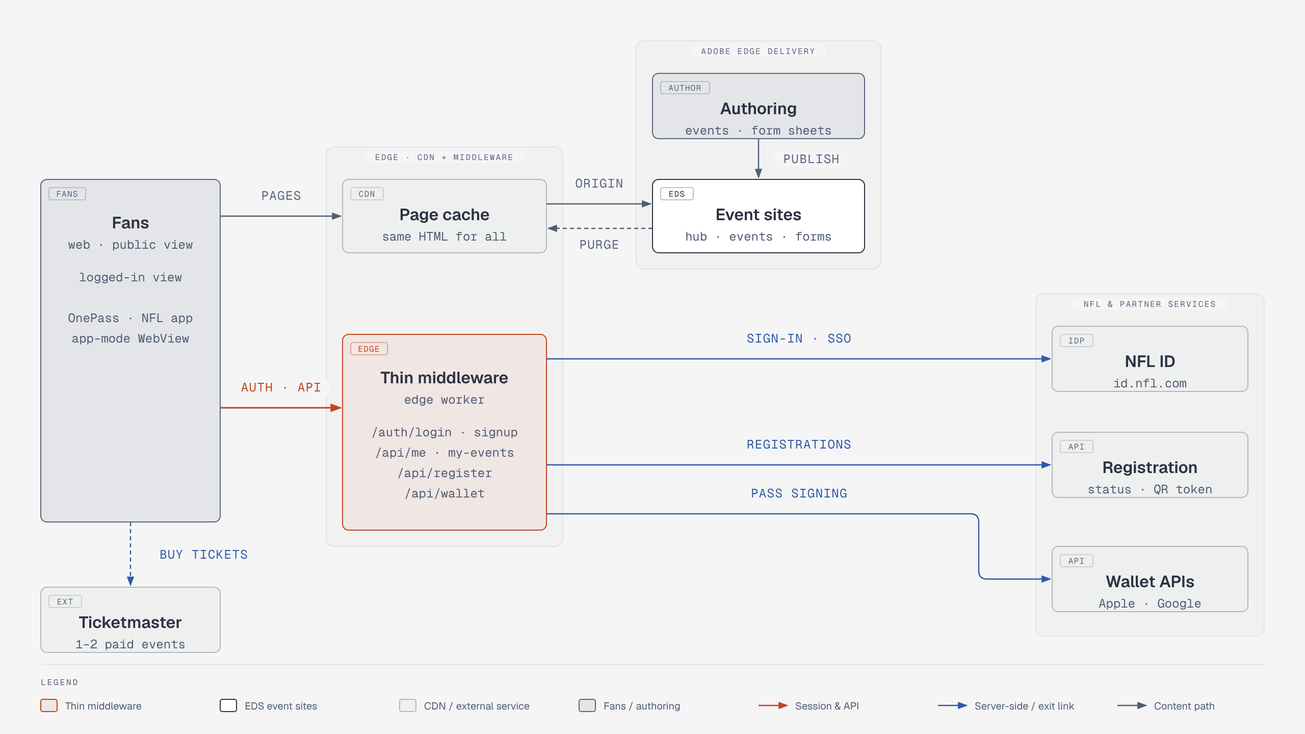
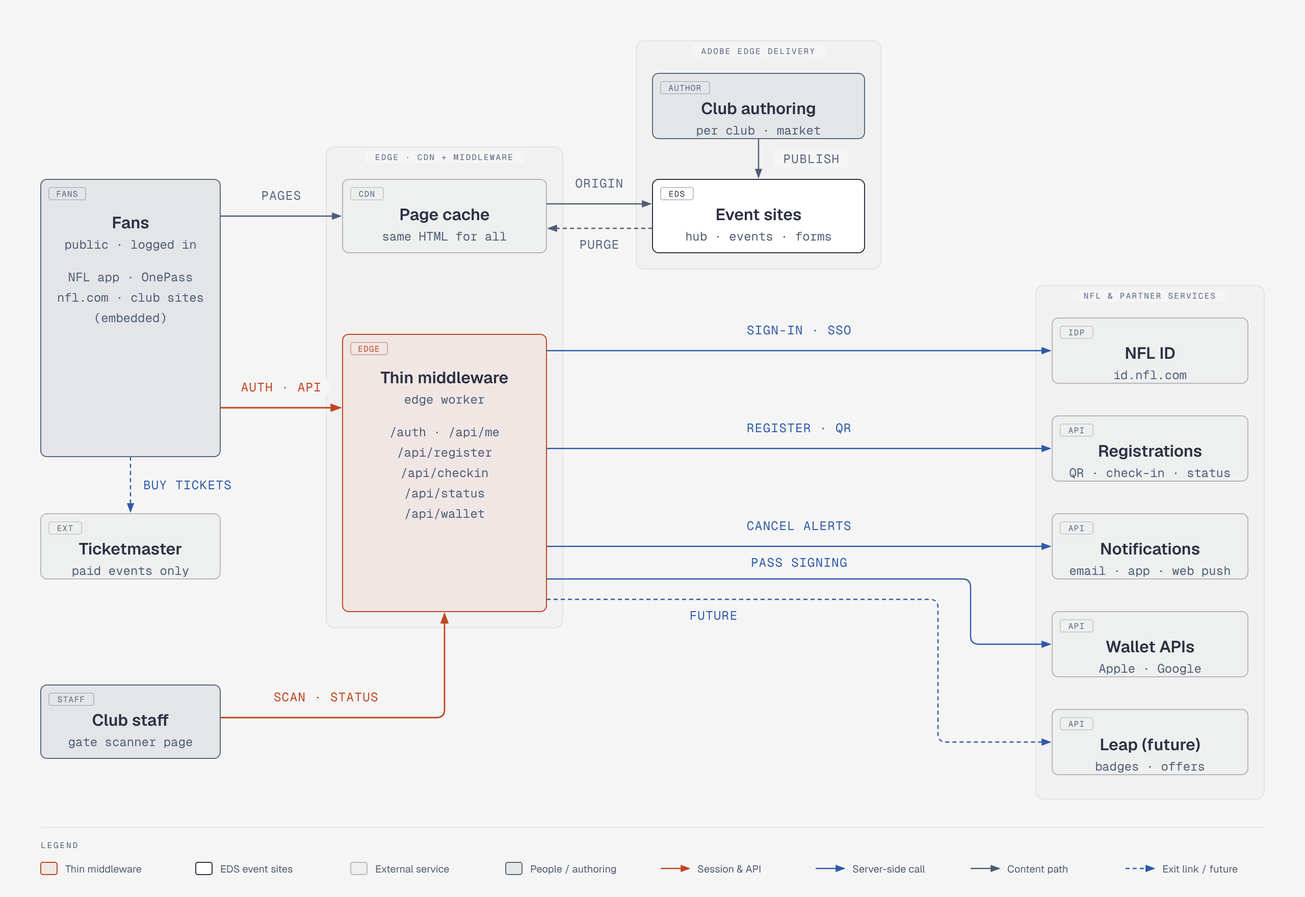
Architecture v3: club events, QR entry and check-in, real-time alerts, embeds, Leap future
Claude-Session: https://claude.ai/code/session_016s9iSUViH6V8h8FGrPn4Vz

diff --git a/docs/architecture/nfl-events-hub-eds-platform.html b/docs/architecture/nfl-events-hub-eds-platform.html
@@ -24,13 +24,12 @@
     svg { width: 100%; min-width: 1280px; display: block; }
     @media print { .diagram-container { overflow-x: visible; } svg { min-width: 0; } }
     .cards { display: grid; grid-template-columns: 1.1fr 1fr 0.9fr; gap: 12px; margin-top: 1.75rem; }
-    .cards .card:nth-child(4) { grid-column: span 2; }
     .card { background: #ffffff; border: 1px solid rgba(45,49,66,0.12); border-radius: 6px; padding: 1rem 1.1rem; }
     .card-eyebrow { font-family: var(--font-mono); font-size: 0.66rem; letter-spacing: 0.16em; text-transform: uppercase; color: #bf4520; margin-bottom: 0.35rem; }
     .card h2 { font-family: var(--font-sans); font-size: 1rem; font-weight: 600; margin-bottom: 0.4rem; }
     .card p { font-size: 0.86rem; line-height: 1.5; color: var(--color-muted); }
     .card code { font-family: var(--font-mono); font-size: 0.8rem; }
-    @media (max-width: 720px) { .cards { grid-template-columns: 1fr; } .cards .card:nth-child(4) { grid-column: auto; } }
+    @media (max-width: 720px) { .cards { grid-template-columns: 1fr; } }
   </style>
 </head>
 <body>
@@ -38,9 +37,9 @@
     <p class="eyebrow">Architecture · NFL Events Hub on EDS</p>
     <h1>NFL Events Hub — high-level architecture</h1>
     <div class="diagram-container">
-    <svg viewBox="0 0 1280 720" xmlns="http://www.w3.org/2000/svg" role="img" aria-labelledby="nfl-events-hub-eds-platform-title nfl-events-hub-eds-platform-desc">
+    <svg viewBox="0 0 1280 880" xmlns="http://www.w3.org/2000/svg" role="img" aria-labelledby="nfl-events-hub-eds-platform-title nfl-events-hub-eds-platform-desc">
 <title id="nfl-events-hub-eds-platform-title">NFL Events Hub on Edge Delivery Services</title>
-<desc id="nfl-events-hub-eds-platform-desc">High-level architecture of the NFL Events Hub: event pages and registration forms on AEM Edge Delivery Services served from the CDN, a thin edge middleware handling NFL ID login, event registration and wallet passes, and Ticketmaster as an exit link for paid events.</desc>
+<desc id="nfl-events-hub-eds-platform-desc">High-level architecture of the NFL Events Hub: club-authored event sites on AEM Edge Delivery Services served from the CDN to fans on the web, NFL app, OnePass and club sites, with a thin edge middleware handling NFL ID login, registration with QR entry, gate check-in, live event status and cancellation alerts, wallet passes, and a future Leap integration.</desc>
 <defs>
 <marker id="arrow" markerWidth="8" markerHeight="6" refX="7" refY="3" orient="auto"><polygon points="0 0, 8 3, 0 6" fill="#4f5d75"/></marker>
 <marker id="arrow-accent" markerWidth="8" markerHeight="6" refX="7" refY="3" orient="auto"><polygon points="0 0, 8 3, 0 6" fill="#bf4520"/></marker>
@@ -50,125 +49,155 @@
 <rect x="624" y="40" width="240" height="224" rx="8" fill="rgba(45,49,66,0.02)" stroke="rgba(45,49,66,0.10)" stroke-width="0.8"/>
 <rect x="678" y="44" width="132" height="12" rx="2" fill="#f5f5f5"/>
 <text x="744" y="53" fill="#5a6580" font-size="8" font-family="'Geist Mono', ui-monospace, monospace" text-anchor="middle" letter-spacing="0.14em">ADOBE EDGE DELIVERY</text>
-<rect x="320" y="144" width="232" height="392" rx="8" fill="rgba(45,49,66,0.02)" stroke="rgba(45,49,66,0.10)" stroke-width="0.8"/>
+<rect x="320" y="144" width="232" height="472" rx="8" fill="rgba(45,49,66,0.02)" stroke="rgba(45,49,66,0.10)" stroke-width="0.8"/>
 <rect x="358" y="148" width="156" height="12" rx="2" fill="#f5f5f5"/>
 <text x="436" y="157" fill="#5a6580" font-size="8" font-family="'Geist Mono', ui-monospace, monospace" text-anchor="middle" letter-spacing="0.14em">EDGE · CDN + MIDDLEWARE</text>
-<rect x="1016" y="288" width="224" height="336" rx="8" fill="rgba(45,49,66,0.02)" stroke="rgba(45,49,66,0.10)" stroke-width="0.8"/>
-<rect x="1052" y="292" width="152" height="12" rx="2" fill="#f5f5f5"/>
-<text x="1128" y="301" fill="#5a6580" font-size="8" font-family="'Geist Mono', ui-monospace, monospace" text-anchor="middle" letter-spacing="0.14em">NFL &amp; PARTNER SERVICES</text>
+<rect x="1016" y="280" width="224" height="504" rx="8" fill="rgba(45,49,66,0.02)" stroke="rgba(45,49,66,0.10)" stroke-width="0.8"/>
+<rect x="1052" y="284" width="152" height="12" rx="2" fill="#f5f5f5"/>
+<text x="1128" y="293" fill="#5a6580" font-size="8" font-family="'Geist Mono', ui-monospace, monospace" text-anchor="middle" letter-spacing="0.14em">NFL &amp; PARTNER SERVICES</text>
 <path d="M 216,212 H 334" fill="none" stroke="#4f5d75" stroke-width="1.2" marker-end="url(#arrow)"/>
 <path d="M 216,400 H 334" fill="none" stroke="#bf4520" stroke-width="1.4" marker-end="url(#arrow-accent)"/>
-<path d="M 128,512 V 574" fill="none" stroke="#2e5aa8" stroke-width="1.2" stroke-dasharray="4,3" marker-end="url(#arrow-link)"/>
+<path d="M 128,448 V 502" fill="none" stroke="#2e5aa8" stroke-width="1.2" stroke-dasharray="4,3" marker-end="url(#arrow-link)"/>
+<path d="M 216,704 H 428 Q 436,704 436,696 V 602" fill="none" stroke="#bf4520" stroke-width="1.4" marker-end="url(#arrow-accent)"/>
 <path d="M 536,200 H 638" fill="none" stroke="#4f5d75" stroke-width="1.2" marker-end="url(#arrow)"/>
 <path d="M 640,224 H 538" fill="none" stroke="#4f5d75" stroke-width="1.2" stroke-dasharray="4,3" marker-end="url(#arrow)"/>
 <path d="M 744,136 V 174" fill="none" stroke="#4f5d75" stroke-width="1.2" marker-end="url(#arrow)"/>
-<path d="M 536,352 H 1030" fill="none" stroke="#2e5aa8" stroke-width="1.2" marker-end="url(#arrow-link)"/>
-<path d="M 536,456 H 1030" fill="none" stroke="#2e5aa8" stroke-width="1.2" marker-end="url(#arrow-link)"/>
-<path d="M 536,504 H 952 Q 960,504 960,512 V 560 Q 960,568 968,568 H 1030" fill="none" stroke="#2e5aa8" stroke-width="1.2" marker-end="url(#arrow-link)"/>
+<path d="M 536,344 H 1030" fill="none" stroke="#2e5aa8" stroke-width="1.2" marker-end="url(#arrow-link)"/>
+<path d="M 536,440 H 1030" fill="none" stroke="#2e5aa8" stroke-width="1.2" marker-end="url(#arrow-link)"/>
+<path d="M 536,536 H 1030" fill="none" stroke="#2e5aa8" stroke-width="1.2" marker-end="url(#arrow-link)"/>
+<path d="M 536,568 H 944 Q 952,568 952,576 V 624 Q 952,632 960,632 H 1030" fill="none" stroke="#2e5aa8" stroke-width="1.2" marker-end="url(#arrow-link)"/>
+<path d="M 536,588 H 912 Q 920,588 920,596 V 720 Q 920,728 928,728 H 1030" fill="none" stroke="#2e5aa8" stroke-width="1.2" stroke-dasharray="4,3" marker-end="url(#arrow-link)"/>
 <rect x="250" y="184" width="52" height="16" rx="2" fill="#f5f5f5"/>
 <text x="276" y="196" fill="#5a6580" font-size="12" font-family="'Geist Mono', ui-monospace, monospace" text-anchor="middle" letter-spacing="0.06em">PAGES</text>
 <rect x="228" y="372" width="96" height="16" rx="2" fill="#f5f5f5"/>
 <text x="276" y="384" fill="#bf4520" font-size="12" font-family="'Geist Mono', ui-monospace, monospace" text-anchor="middle" letter-spacing="0.06em">AUTH · API</text>
-<rect x="148" y="536" width="104" height="16" rx="2" fill="#f5f5f5"/>
-<text x="200" y="548" fill="#2e5aa8" font-size="12" font-family="'Geist Mono', ui-monospace, monospace" text-anchor="middle" letter-spacing="0.06em">BUY TICKETS</text>
+<rect x="132" y="468" width="104" height="16" rx="2" fill="#f5f5f5"/>
+<text x="184" y="480" fill="#2e5aa8" font-size="12" font-family="'Geist Mono', ui-monospace, monospace" text-anchor="middle" letter-spacing="0.06em">BUY TICKETS</text>
+<rect x="260" y="676" width="120" height="16" rx="2" fill="#f5f5f5"/>
+<text x="320" y="688" fill="#bf4520" font-size="12" font-family="'Geist Mono', ui-monospace, monospace" text-anchor="middle" letter-spacing="0.06em">SCAN · STATUS</text>
 <rect x="558" y="172" width="60" height="16" rx="2" fill="#f5f5f5"/>
 <text x="588" y="184" fill="#5a6580" font-size="12" font-family="'Geist Mono', ui-monospace, monospace" text-anchor="middle" letter-spacing="0.06em">ORIGIN</text>
 <rect x="562" y="232" width="52" height="16" rx="2" fill="#f5f5f5"/>
 <text x="588" y="244" fill="#5a6580" font-size="12" font-family="'Geist Mono', ui-monospace, monospace" text-anchor="middle" letter-spacing="0.06em">PURGE</text>
 <rect x="760" y="148" width="72" height="16" rx="2" fill="#f5f5f5"/>
 <text x="796" y="160" fill="#5a6580" font-size="12" font-family="'Geist Mono', ui-monospace, monospace" text-anchor="middle" letter-spacing="0.06em">PUBLISH</text>
-<rect x="724" y="324" width="120" height="16" rx="2" fill="#f5f5f5"/>
-<text x="784" y="336" fill="#2e5aa8" font-size="12" font-family="'Geist Mono', ui-monospace, monospace" text-anchor="middle" letter-spacing="0.06em">SIGN-IN · SSO</text>
-<rect x="724" y="428" width="120" height="16" rx="2" fill="#f5f5f5"/>
-<text x="784" y="440" fill="#2e5aa8" font-size="12" font-family="'Geist Mono', ui-monospace, monospace" text-anchor="middle" letter-spacing="0.06em">REGISTRATIONS</text>
-<rect x="728" y="476" width="112" height="16" rx="2" fill="#f5f5f5"/>
-<text x="784" y="488" fill="#2e5aa8" font-size="12" font-family="'Geist Mono', ui-monospace, monospace" text-anchor="middle" letter-spacing="0.06em">PASS SIGNING</text>
-<rect x="40" y="176" width="176" height="336" rx="6" fill="#f5f5f5"/>
-<rect x="40" y="176" width="176" height="336" rx="6" fill="rgba(79,93,117,0.10)" stroke="#5a6580" stroke-width="1"/>
+<rect x="724" y="316" width="120" height="16" rx="2" fill="#f5f5f5"/>
+<text x="784" y="328" fill="#2e5aa8" font-size="12" font-family="'Geist Mono', ui-monospace, monospace" text-anchor="middle" letter-spacing="0.06em">SIGN-IN · SSO</text>
+<rect x="724" y="412" width="120" height="16" rx="2" fill="#f5f5f5"/>
+<text x="784" y="424" fill="#2e5aa8" font-size="12" font-family="'Geist Mono', ui-monospace, monospace" text-anchor="middle" letter-spacing="0.06em">REGISTER · QR</text>
+<rect x="724" y="508" width="120" height="16" rx="2" fill="#f5f5f5"/>
+<text x="784" y="520" fill="#2e5aa8" font-size="12" font-family="'Geist Mono', ui-monospace, monospace" text-anchor="middle" letter-spacing="0.06em">CANCEL ALERTS</text>
+<rect x="728" y="544" width="112" height="16" rx="2" fill="#f5f5f5"/>
+<text x="784" y="556" fill="#2e5aa8" font-size="12" font-family="'Geist Mono', ui-monospace, monospace" text-anchor="middle" letter-spacing="0.06em">PASS SIGNING</text>
+<rect x="670" y="596" width="60" height="16" rx="2" fill="#f5f5f5"/>
+<text x="700" y="608" fill="#2e5aa8" font-size="12" font-family="'Geist Mono', ui-monospace, monospace" text-anchor="middle" letter-spacing="0.06em">FUTURE</text>
+<rect x="40" y="176" width="176" height="272" rx="6" fill="#f5f5f5"/>
+<rect x="40" y="176" width="176" height="272" rx="6" fill="rgba(79,93,117,0.10)" stroke="#5a6580" stroke-width="1"/>
 <rect x="48" y="184" width="36" height="12" rx="2" fill="transparent" stroke="rgba(90,101,128,0.40)" stroke-width="0.8"/>
 <text x="66" y="193" fill="#5a6580" font-size="8" font-family="'Geist Mono', ui-monospace, monospace" text-anchor="middle" letter-spacing="0.08em">FANS</text>
 <text x="128" y="224" fill="#2d3142" font-size="16" font-weight="600" font-family="'Geist', system-ui, sans-serif" text-anchor="middle">Fans</text>
-<text x="128" y="244" fill="#4f5d75" font-size="12" font-family="'Geist Mono', ui-monospace, monospace" text-anchor="middle">web · public view</text>
-<text x="128" y="276" fill="#4f5d75" font-size="12" font-family="'Geist Mono', ui-monospace, monospace" text-anchor="middle">logged-in view</text>
-<text x="128" y="296" fill="#4f5d75" font-size="12" font-family="'Geist Mono', ui-monospace, monospace" text-anchor="middle"></text>
-<text x="128" y="316" fill="#4f5d75" font-size="12" font-family="'Geist Mono', ui-monospace, monospace" text-anchor="middle">OnePass · NFL app</text>
-<text x="128" y="336" fill="#4f5d75" font-size="12" font-family="'Geist Mono', ui-monospace, monospace" text-anchor="middle">app-mode WebView</text>
-<rect x="40" y="576" width="176" height="64" rx="6" fill="#f5f5f5"/>
-<rect x="40" y="576" width="176" height="64" rx="6" fill="rgba(45,49,66,0.03)" stroke="rgba(45,49,66,0.30)" stroke-width="1"/>
-<rect x="48" y="584" width="32" height="12" rx="2" fill="transparent" stroke="rgba(45,49,66,0.22)" stroke-width="0.8"/>
-<text x="64" y="593" fill="#5a6580" font-size="8" font-family="'Geist Mono', ui-monospace, monospace" text-anchor="middle" letter-spacing="0.08em">EXT</text>
-<text x="128" y="616" fill="#2d3142" font-size="16" font-weight="600" font-family="'Geist', system-ui, sans-serif" text-anchor="middle">Ticketmaster</text>
-<text x="128" y="636" fill="#4f5d75" font-size="12" font-family="'Geist Mono', ui-monospace, monospace" text-anchor="middle">1–2 paid events</text>
+<text x="128" y="244" fill="#4f5d75" font-size="12" font-family="'Geist Mono', ui-monospace, monospace" text-anchor="middle">public · logged in</text>
+<text x="128" y="276" fill="#4f5d75" font-size="12" font-family="'Geist Mono', ui-monospace, monospace" text-anchor="middle">NFL app · OnePass</text>
+<text x="128" y="296" fill="#4f5d75" font-size="12" font-family="'Geist Mono', ui-monospace, monospace" text-anchor="middle">nfl.com · club sites</text>
+<text x="128" y="316" fill="#4f5d75" font-size="12" font-family="'Geist Mono', ui-monospace, monospace" text-anchor="middle">(embedded)</text>
+<rect x="40" y="504" width="176" height="64" rx="6" fill="#f5f5f5"/>
+<rect x="40" y="504" width="176" height="64" rx="6" fill="rgba(45,49,66,0.03)" stroke="rgba(45,49,66,0.30)" stroke-width="1"/>
+<rect x="48" y="512" width="32" height="12" rx="2" fill="transparent" stroke="rgba(45,49,66,0.22)" stroke-width="0.8"/>
+<text x="64" y="521" fill="#5a6580" font-size="8" font-family="'Geist Mono', ui-monospace, monospace" text-anchor="middle" letter-spacing="0.08em">EXT</text>
+<text x="128" y="544" fill="#2d3142" font-size="16" font-weight="600" font-family="'Geist', system-ui, sans-serif" text-anchor="middle">Ticketmaster</text>
+<text x="128" y="564" fill="#4f5d75" font-size="12" font-family="'Geist Mono', ui-monospace, monospace" text-anchor="middle">paid events only</text>
+<rect x="40" y="672" width="176" height="72" rx="6" fill="#f5f5f5"/>
+<rect x="40" y="672" width="176" height="72" rx="6" fill="rgba(79,93,117,0.10)" stroke="#5a6580" stroke-width="1"/>
+<rect x="48" y="680" width="44" height="12" rx="2" fill="transparent" stroke="rgba(90,101,128,0.40)" stroke-width="0.8"/>
+<text x="70" y="689" fill="#5a6580" font-size="8" font-family="'Geist Mono', ui-monospace, monospace" text-anchor="middle" letter-spacing="0.08em">STAFF</text>
+<text x="128" y="712" fill="#2d3142" font-size="16" font-weight="600" font-family="'Geist', system-ui, sans-serif" text-anchor="middle">Club staff</text>
+<text x="128" y="732" fill="#4f5d75" font-size="12" font-family="'Geist Mono', ui-monospace, monospace" text-anchor="middle">gate scanner page</text>
 <rect x="336" y="176" width="200" height="72" rx="6" fill="#f5f5f5"/>
 <rect x="336" y="176" width="200" height="72" rx="6" fill="rgba(45,49,66,0.03)" stroke="rgba(45,49,66,0.30)" stroke-width="1"/>
 <rect x="344" y="184" width="32" height="12" rx="2" fill="transparent" stroke="rgba(45,49,66,0.22)" stroke-width="0.8"/>
 <text x="360" y="193" fill="#5a6580" font-size="8" font-family="'Geist Mono', ui-monospace, monospace" text-anchor="middle" letter-spacing="0.08em">CDN</text>
 <text x="436" y="216" fill="#2d3142" font-size="16" font-weight="600" font-family="'Geist', system-ui, sans-serif" text-anchor="middle">Page cache</text>
 <text x="436" y="236" fill="#4f5d75" font-size="12" font-family="'Geist Mono', ui-monospace, monospace" text-anchor="middle">same HTML for all</text>
-<rect x="336" y="328" width="200" height="192" rx="6" fill="#f5f5f5"/>
-<rect x="336" y="328" width="200" height="192" rx="6" fill="rgba(191,69,32,0.08)" stroke="#bf4520" stroke-width="1"/>
+<rect x="336" y="328" width="200" height="272" rx="6" fill="#f5f5f5"/>
+<rect x="336" y="328" width="200" height="272" rx="6" fill="rgba(191,69,32,0.08)" stroke="#bf4520" stroke-width="1"/>
 <rect x="344" y="336" width="36" height="12" rx="2" fill="transparent" stroke="rgba(191,69,32,0.50)" stroke-width="0.8"/>
 <text x="362" y="345" fill="#bf4520" font-size="8" font-family="'Geist Mono', ui-monospace, monospace" text-anchor="middle" letter-spacing="0.08em">EDGE</text>
 <text x="436" y="376" fill="#2d3142" font-size="16" font-weight="600" font-family="'Geist', system-ui, sans-serif" text-anchor="middle">Thin middleware</text>
 <text x="436" y="396" fill="#4f5d75" font-size="12" font-family="'Geist Mono', ui-monospace, monospace" text-anchor="middle">edge worker</text>
-<text x="436" y="428" fill="#4f5d75" font-size="12" font-family="'Geist Mono', ui-monospace, monospace" text-anchor="middle">/auth/login · signup</text>
-<text x="436" y="448" fill="#4f5d75" font-size="12" font-family="'Geist Mono', ui-monospace, monospace" text-anchor="middle">/api/me · my-events</text>
-<text x="436" y="468" fill="#4f5d75" font-size="12" font-family="'Geist Mono', ui-monospace, monospace" text-anchor="middle">/api/register</text>
-<text x="436" y="488" fill="#4f5d75" font-size="12" font-family="'Geist Mono', ui-monospace, monospace" text-anchor="middle">/api/wallet</text>
+<text x="436" y="428" fill="#4f5d75" font-size="12" font-family="'Geist Mono', ui-monospace, monospace" text-anchor="middle">/auth · /api/me</text>
+<text x="436" y="448" fill="#4f5d75" font-size="12" font-family="'Geist Mono', ui-monospace, monospace" text-anchor="middle">/api/register</text>
+<text x="436" y="468" fill="#4f5d75" font-size="12" font-family="'Geist Mono', ui-monospace, monospace" text-anchor="middle">/api/checkin</text>
+<text x="436" y="488" fill="#4f5d75" font-size="12" font-family="'Geist Mono', ui-monospace, monospace" text-anchor="middle">/api/status</text>
+<text x="436" y="508" fill="#4f5d75" font-size="12" font-family="'Geist Mono', ui-monospace, monospace" text-anchor="middle">/api/wallet</text>
 <rect x="640" y="72" width="208" height="64" rx="6" fill="#f5f5f5"/>
 <rect x="640" y="72" width="208" height="64" rx="6" fill="rgba(79,93,117,0.10)" stroke="#5a6580" stroke-width="1"/>
 <rect x="648" y="80" width="48" height="12" rx="2" fill="transparent" stroke="rgba(90,101,128,0.40)" stroke-width="0.8"/>
 <text x="672" y="89" fill="#5a6580" font-size="8" font-family="'Geist Mono', ui-monospace, monospace" text-anchor="middle" letter-spacing="0.08em">AUTHOR</text>
-<text x="744" y="112" fill="#2d3142" font-size="16" font-weight="600" font-family="'Geist', system-ui, sans-serif" text-anchor="middle">Authoring</text>
-<text x="744" y="132" fill="#4f5d75" font-size="12" font-family="'Geist Mono', ui-monospace, monospace" text-anchor="middle">events · form sheets</text>
+<text x="744" y="112" fill="#2d3142" font-size="16" font-weight="600" font-family="'Geist', system-ui, sans-serif" text-anchor="middle">Club authoring</text>
+<text x="744" y="132" fill="#4f5d75" font-size="12" font-family="'Geist Mono', ui-monospace, monospace" text-anchor="middle">per club · market</text>
 <rect x="640" y="176" width="208" height="72" rx="6" fill="#f5f5f5"/>
 <rect x="640" y="176" width="208" height="72" rx="6" fill="#ffffff" stroke="#2d3142" stroke-width="1"/>
 <rect x="648" y="184" width="32" height="12" rx="2" fill="transparent" stroke="rgba(45,49,66,0.40)" stroke-width="0.8"/>
 <text x="664" y="193" fill="#2d3142" font-size="8" font-family="'Geist Mono', ui-monospace, monospace" text-anchor="middle" letter-spacing="0.08em">EDS</text>
 <text x="744" y="216" fill="#2d3142" font-size="16" font-weight="600" font-family="'Geist', system-ui, sans-serif" text-anchor="middle">Event sites</text>
 <text x="744" y="236" fill="#4f5d75" font-size="12" font-family="'Geist Mono', ui-monospace, monospace" text-anchor="middle">hub · events · forms</text>
-<rect x="1032" y="320" width="192" height="64" rx="6" fill="#f5f5f5"/>
-<rect x="1032" y="320" width="192" height="64" rx="6" fill="rgba(45,49,66,0.03)" stroke="rgba(45,49,66,0.30)" stroke-width="1"/>
-<rect x="1040" y="328" width="32" height="12" rx="2" fill="transparent" stroke="rgba(45,49,66,0.22)" stroke-width="0.8"/>
-<text x="1056" y="337" fill="#5a6580" font-size="8" font-family="'Geist Mono', ui-monospace, monospace" text-anchor="middle" letter-spacing="0.08em">IDP</text>
-<text x="1128" y="360" fill="#2d3142" font-size="16" font-weight="600" font-family="'Geist', system-ui, sans-serif" text-anchor="middle">NFL ID</text>
-<text x="1128" y="380" fill="#4f5d75" font-size="12" font-family="'Geist Mono', ui-monospace, monospace" text-anchor="middle">id.nfl.com</text>
-<rect x="1032" y="424" width="192" height="64" rx="6" fill="#f5f5f5"/>
-<rect x="1032" y="424" width="192" height="64" rx="6" fill="rgba(45,49,66,0.03)" stroke="rgba(45,49,66,0.30)" stroke-width="1"/>
-<rect x="1040" y="432" width="32" height="12" rx="2" fill="transparent" stroke="rgba(45,49,66,0.22)" stroke-width="0.8"/>
-<text x="1056" y="441" fill="#5a6580" font-size="8" font-family="'Geist Mono', ui-monospace, monospace" text-anchor="middle" letter-spacing="0.08em">API</text>
-<text x="1128" y="464" fill="#2d3142" font-size="16" font-weight="600" font-family="'Geist', system-ui, sans-serif" text-anchor="middle">Registration</text>
-<text x="1128" y="484" fill="#4f5d75" font-size="12" font-family="'Geist Mono', ui-monospace, monospace" text-anchor="middle">status · QR token</text>
-<rect x="1032" y="536" width="192" height="64" rx="6" fill="#f5f5f5"/>
-<rect x="1032" y="536" width="192" height="64" rx="6" fill="rgba(45,49,66,0.03)" stroke="rgba(45,49,66,0.30)" stroke-width="1"/>
-<rect x="1040" y="544" width="32" height="12" rx="2" fill="transparent" stroke="rgba(45,49,66,0.22)" stroke-width="0.8"/>
-<text x="1056" y="553" fill="#5a6580" font-size="8" font-family="'Geist Mono', ui-monospace, monospace" text-anchor="middle" letter-spacing="0.08em">API</text>
-<text x="1128" y="576" fill="#2d3142" font-size="16" font-weight="600" font-family="'Geist', system-ui, sans-serif" text-anchor="middle">Wallet APIs</text>
-<text x="1128" y="596" fill="#4f5d75" font-size="12" font-family="'Geist Mono', ui-monospace, monospace" text-anchor="middle">Apple · Google</text>
-<line x1="40" y1="652" x2="1240" y2="652" stroke="rgba(45,49,66,0.10)" stroke-width="0.8"/>
-<text x="40" y="672" fill="#4f5d75" font-size="8" font-family="'Geist Mono', ui-monospace, monospace" letter-spacing="0.18em">LEGEND</text>
-<rect x="40" y="686" width="16" height="12" rx="2" fill="rgba(191,69,32,0.08)" stroke="#bf4520" stroke-width="1"/>
-<text x="64" y="696" fill="#4f5d75" font-size="10" font-family="'Geist', system-ui, sans-serif">Thin middleware</text>
-<rect x="216" y="686" width="16" height="12" rx="2" fill="#ffffff" stroke="#2d3142" stroke-width="1"/>
-<text x="240" y="696" fill="#4f5d75" font-size="10" font-family="'Geist', system-ui, sans-serif">EDS event sites</text>
-<rect x="392" y="686" width="16" height="12" rx="2" fill="rgba(45,49,66,0.03)" stroke="rgba(45,49,66,0.30)" stroke-width="1"/>
-<text x="416" y="696" fill="#4f5d75" font-size="10" font-family="'Geist', system-ui, sans-serif">CDN / external service</text>
-<rect x="568" y="686" width="16" height="12" rx="2" fill="rgba(79,93,117,0.10)" stroke="#5a6580" stroke-width="1"/>
-<text x="592" y="696" fill="#4f5d75" font-size="10" font-family="'Geist', system-ui, sans-serif">Fans / authoring</text>
-<line x1="744" y1="692" x2="772" y2="692" stroke="#bf4520" stroke-width="1.2" marker-end="url(#arrow-accent)"/>
-<text x="780" y="696" fill="#4f5d75" font-size="10" font-family="'Geist', system-ui, sans-serif">Session &amp; API</text>
-<line x1="920" y1="692" x2="948" y2="692" stroke="#2e5aa8" stroke-width="1.2" marker-end="url(#arrow-link)"/>
-<text x="956" y="696" fill="#4f5d75" font-size="10" font-family="'Geist', system-ui, sans-serif">Server-side / exit link</text>
-<line x1="1096" y1="692" x2="1124" y2="692" stroke="#4f5d75" stroke-width="1.2" marker-end="url(#arrow)"/>
-<text x="1132" y="696" fill="#4f5d75" font-size="10" font-family="'Geist', system-ui, sans-serif">Content path</text>
+<rect x="1032" y="312" width="192" height="64" rx="6" fill="#f5f5f5"/>
+<rect x="1032" y="312" width="192" height="64" rx="6" fill="rgba(45,49,66,0.03)" stroke="rgba(45,49,66,0.30)" stroke-width="1"/>
+<rect x="1040" y="320" width="32" height="12" rx="2" fill="transparent" stroke="rgba(45,49,66,0.22)" stroke-width="0.8"/>
+<text x="1056" y="329" fill="#5a6580" font-size="8" font-family="'Geist Mono', ui-monospace, monospace" text-anchor="middle" letter-spacing="0.08em">IDP</text>
+<text x="1128" y="352" fill="#2d3142" font-size="16" font-weight="600" font-family="'Geist', system-ui, sans-serif" text-anchor="middle">NFL ID</text>
+<text x="1128" y="372" fill="#4f5d75" font-size="12" font-family="'Geist Mono', ui-monospace, monospace" text-anchor="middle">id.nfl.com</text>
+<rect x="1032" y="408" width="192" height="64" rx="6" fill="#f5f5f5"/>
+<rect x="1032" y="408" width="192" height="64" rx="6" fill="rgba(45,49,66,0.03)" stroke="rgba(45,49,66,0.30)" stroke-width="1"/>
+<rect x="1040" y="416" width="32" height="12" rx="2" fill="transparent" stroke="rgba(45,49,66,0.22)" stroke-width="0.8"/>
+<text x="1056" y="425" fill="#5a6580" font-size="8" font-family="'Geist Mono', ui-monospace, monospace" text-anchor="middle" letter-spacing="0.08em">API</text>
+<text x="1128" y="448" fill="#2d3142" font-size="16" font-weight="600" font-family="'Geist', system-ui, sans-serif" text-anchor="middle">Registrations</text>
+<text x="1128" y="468" fill="#4f5d75" font-size="12" font-family="'Geist Mono', ui-monospace, monospace" text-anchor="middle">QR · check-in · status</text>
+<rect x="1032" y="504" width="192" height="64" rx="6" fill="#f5f5f5"/>
+<rect x="1032" y="504" width="192" height="64" rx="6" fill="rgba(45,49,66,0.03)" stroke="rgba(45,49,66,0.30)" stroke-width="1"/>
+<rect x="1040" y="512" width="32" height="12" rx="2" fill="transparent" stroke="rgba(45,49,66,0.22)" stroke-width="0.8"/>
+<text x="1056" y="521" fill="#5a6580" font-size="8" font-family="'Geist Mono', ui-monospace, monospace" text-anchor="middle" letter-spacing="0.08em">API</text>
+<text x="1128" y="544" fill="#2d3142" font-size="16" font-weight="600" font-family="'Geist', system-ui, sans-serif" text-anchor="middle">Notifications</text>
+<text x="1128" y="564" fill="#4f5d75" font-size="12" font-family="'Geist Mono', ui-monospace, monospace" text-anchor="middle">email · app · web push</text>
+<rect x="1032" y="600" width="192" height="64" rx="6" fill="#f5f5f5"/>
+<rect x="1032" y="600" width="192" height="64" rx="6" fill="rgba(45,49,66,0.03)" stroke="rgba(45,49,66,0.30)" stroke-width="1"/>
+<rect x="1040" y="608" width="32" height="12" rx="2" fill="transparent" stroke="rgba(45,49,66,0.22)" stroke-width="0.8"/>
+<text x="1056" y="617" fill="#5a6580" font-size="8" font-family="'Geist Mono', ui-monospace, monospace" text-anchor="middle" letter-spacing="0.08em">API</text>
+<text x="1128" y="640" fill="#2d3142" font-size="16" font-weight="600" font-family="'Geist', system-ui, sans-serif" text-anchor="middle">Wallet APIs</text>
+<text x="1128" y="660" fill="#4f5d75" font-size="12" font-family="'Geist Mono', ui-monospace, monospace" text-anchor="middle">Apple · Google</text>
+<rect x="1032" y="696" width="192" height="64" rx="6" fill="#f5f5f5"/>
+<rect x="1032" y="696" width="192" height="64" rx="6" fill="rgba(45,49,66,0.03)" stroke="rgba(45,49,66,0.30)" stroke-width="1"/>
+<rect x="1040" y="704" width="32" height="12" rx="2" fill="transparent" stroke="rgba(45,49,66,0.22)" stroke-width="0.8"/>
+<text x="1056" y="713" fill="#5a6580" font-size="8" font-family="'Geist Mono', ui-monospace, monospace" text-anchor="middle" letter-spacing="0.08em">API</text>
+<text x="1128" y="736" fill="#2d3142" font-size="16" font-weight="600" font-family="'Geist', system-ui, sans-serif" text-anchor="middle">Leap (future)</text>
+<text x="1128" y="756" fill="#4f5d75" font-size="12" font-family="'Geist Mono', ui-monospace, monospace" text-anchor="middle">badges · offers</text>
+<line x1="40" y1="812" x2="1240" y2="812" stroke="rgba(45,49,66,0.10)" stroke-width="0.8"/>
+<text x="40" y="832" fill="#4f5d75" font-size="8" font-family="'Geist Mono', ui-monospace, monospace" letter-spacing="0.18em">LEGEND</text>
+<rect x="40" y="846" width="16" height="12" rx="2" fill="rgba(191,69,32,0.08)" stroke="#bf4520" stroke-width="1"/>
+<text x="64" y="856" fill="#4f5d75" font-size="10" font-family="'Geist', system-ui, sans-serif">Thin middleware</text>
+<rect x="192" y="846" width="16" height="12" rx="2" fill="#ffffff" stroke="#2d3142" stroke-width="1"/>
+<text x="216" y="856" fill="#4f5d75" font-size="10" font-family="'Geist', system-ui, sans-serif">EDS event sites</text>
+<rect x="344" y="846" width="16" height="12" rx="2" fill="rgba(45,49,66,0.03)" stroke="rgba(45,49,66,0.30)" stroke-width="1"/>
+<text x="368" y="856" fill="#4f5d75" font-size="10" font-family="'Geist', system-ui, sans-serif">External service</text>
+<rect x="496" y="846" width="16" height="12" rx="2" fill="rgba(79,93,117,0.10)" stroke="#5a6580" stroke-width="1"/>
+<text x="520" y="856" fill="#4f5d75" font-size="10" font-family="'Geist', system-ui, sans-serif">People / authoring</text>
+<line x1="648" y1="852" x2="676" y2="852" stroke="#bf4520" stroke-width="1.2" marker-end="url(#arrow-accent)"/>
+<text x="684" y="856" fill="#4f5d75" font-size="10" font-family="'Geist', system-ui, sans-serif">Session &amp; API</text>
+<line x1="800" y1="852" x2="828" y2="852" stroke="#2e5aa8" stroke-width="1.2" marker-end="url(#arrow-link)"/>
+<text x="836" y="856" fill="#4f5d75" font-size="10" font-family="'Geist', system-ui, sans-serif">Server-side call</text>
+<line x1="952" y1="852" x2="980" y2="852" stroke="#4f5d75" stroke-width="1.2" marker-end="url(#arrow)"/>
+<text x="988" y="856" fill="#4f5d75" font-size="10" font-family="'Geist', system-ui, sans-serif">Content path</text>
+<line x1="1104" y1="852" x2="1132" y2="852" stroke="#2e5aa8" stroke-width="1.2" stroke-dasharray="4,3" marker-end="url(#arrow-link)"/>
+<text x="1140" y="856" fill="#4f5d75" font-size="10" font-family="'Geist', system-ui, sans-serif">Exit link / future</text>
     </svg>
     </div>
     <div class="cards">
-      <div class="card"><p class="card-eyebrow">01 · Public view</p><h2>Browse &amp; buy</h2><p>Hub, event listing and event pages are static EDS pages from the CDN. No pricing, no card payments. Paid events show <b>Buy Tickets</b>, an authored Ticketmaster link that leaves the hub.</p></div>
-      <div class="card"><p class="card-eyebrow">02 · NFL ID</p><h2>Login &amp; register</h2><p><b>Log in</b> and <b>Register</b> both open the hosted id.nfl.com screens, identical to OnePass. The middleware completes sign-in and sets an HttpOnly session cookie. Inside OnePass the app hands its session over, so there is no second login.</p></div>
-      <div class="card"><p class="card-eyebrow">03 · Registration</p><h2>Register for an event</h2><p>Every event has a <b>Register</b> button. A form block renders fields authored per event in a sheet (watch parties, free events). Submit goes to <code>/api/register</code> with the fan’s NFL ID, never to a public endpoint.</p></div>
-      <div class="card"><p class="card-eyebrow">04 · Logged-in view</p><h2>My events</h2><p>Same cached pages; blocks call <code>/api/me</code> and <code>/api/my-events</code> to show registered events, status, a QR code and <b>Add to Wallet</b> (pass signed server-side by <code>/api/wallet</code>).</p></div>
-      <div class="card"><p class="card-eyebrow">05 · OnePass app</p><h2>In-app experience</h2><p>OnePass opens the same pages in app mode: no site header/footer, native back, share and wallet via a small JS bridge. FanScan check-ins stay native.</p></div>
+      <div class="card"><p class="card-eyebrow">01 · Club events first</p><h2>International 1:1 events</h2><p>Each club authors its own events in its own workspace (per club, per market and language). EDS turns them into the hub, club and event pages with details, venue map and a <b>Register</b> button. Paid events add <b>Buy Tickets</b> to Ticketmaster.</p></div>
+      <div class="card"><p class="card-eyebrow">02 · QR registration &amp; entry</p><h2>Register, then scan at the gate</h2><p><code>/api/register</code> stores the registration with the fan’s NFL ID and issues a signed QR (per-club setting). Fans see it in My Events or Wallet. Staff open a sign-in-protected scanner page; <code>/api/checkin</code> validates and marks it used.</p></div>
+      <div class="card"><p class="card-eyebrow">03 · Real-time updates</p><h2>Cancellations reach fans fast</h2><p>A club sets an event or city to cancelled. Pages show it within seconds via <code>/api/status</code> (short cache) and a republish purges the CDN. Registered fans get email and app push; visitors who opted in get web push.</p></div>
+      <div class="card"><p class="card-eyebrow">04 · NFL ID</p><h2>Public and logged-in views</h2><p>Log in and Register open id.nfl.com, same as OnePass. Same cached pages; logged-in blocks show my events, status, QR and wallet.</p></div>
+      <div class="card"><p class="card-eyebrow">05 · Everywhere</p><h2>Website, NFL app, OnePass</h2><p>One build: app mode in NFL app and OnePass WebViews, and an embed mode for nfl.com and club sites. Login inside an embed opens id.nfl.com top-level.</p></div>
+      <div class="card"><p class="card-eyebrow">06 · Next</p><h2>League events &amp; Leap</h2><p>League-managed events reuse the same blocks. Leap features (badges, scanning, offers, sponsors) plug in behind the middleware later. Styling follows the NFL Global Design Playbook as EDS design tokens.</p></div>
     </div>
   </div>
 </body>
